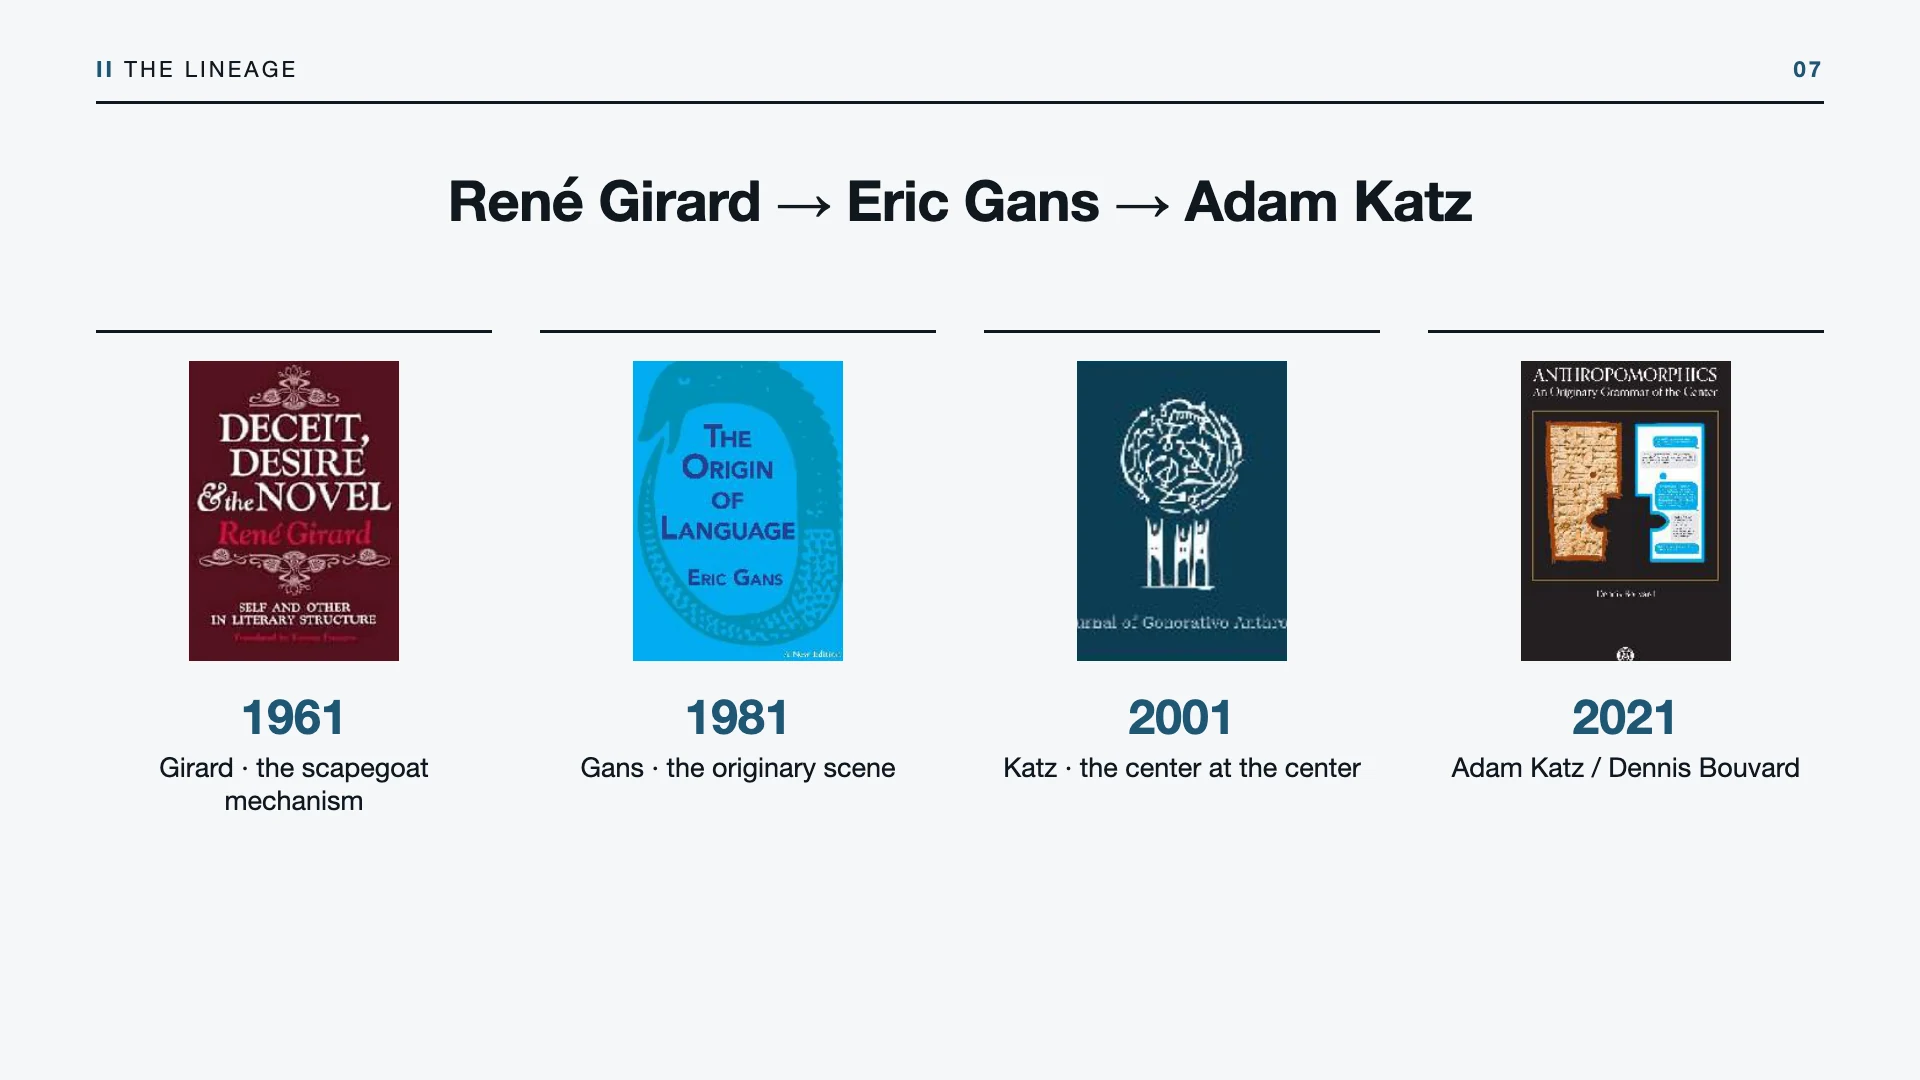
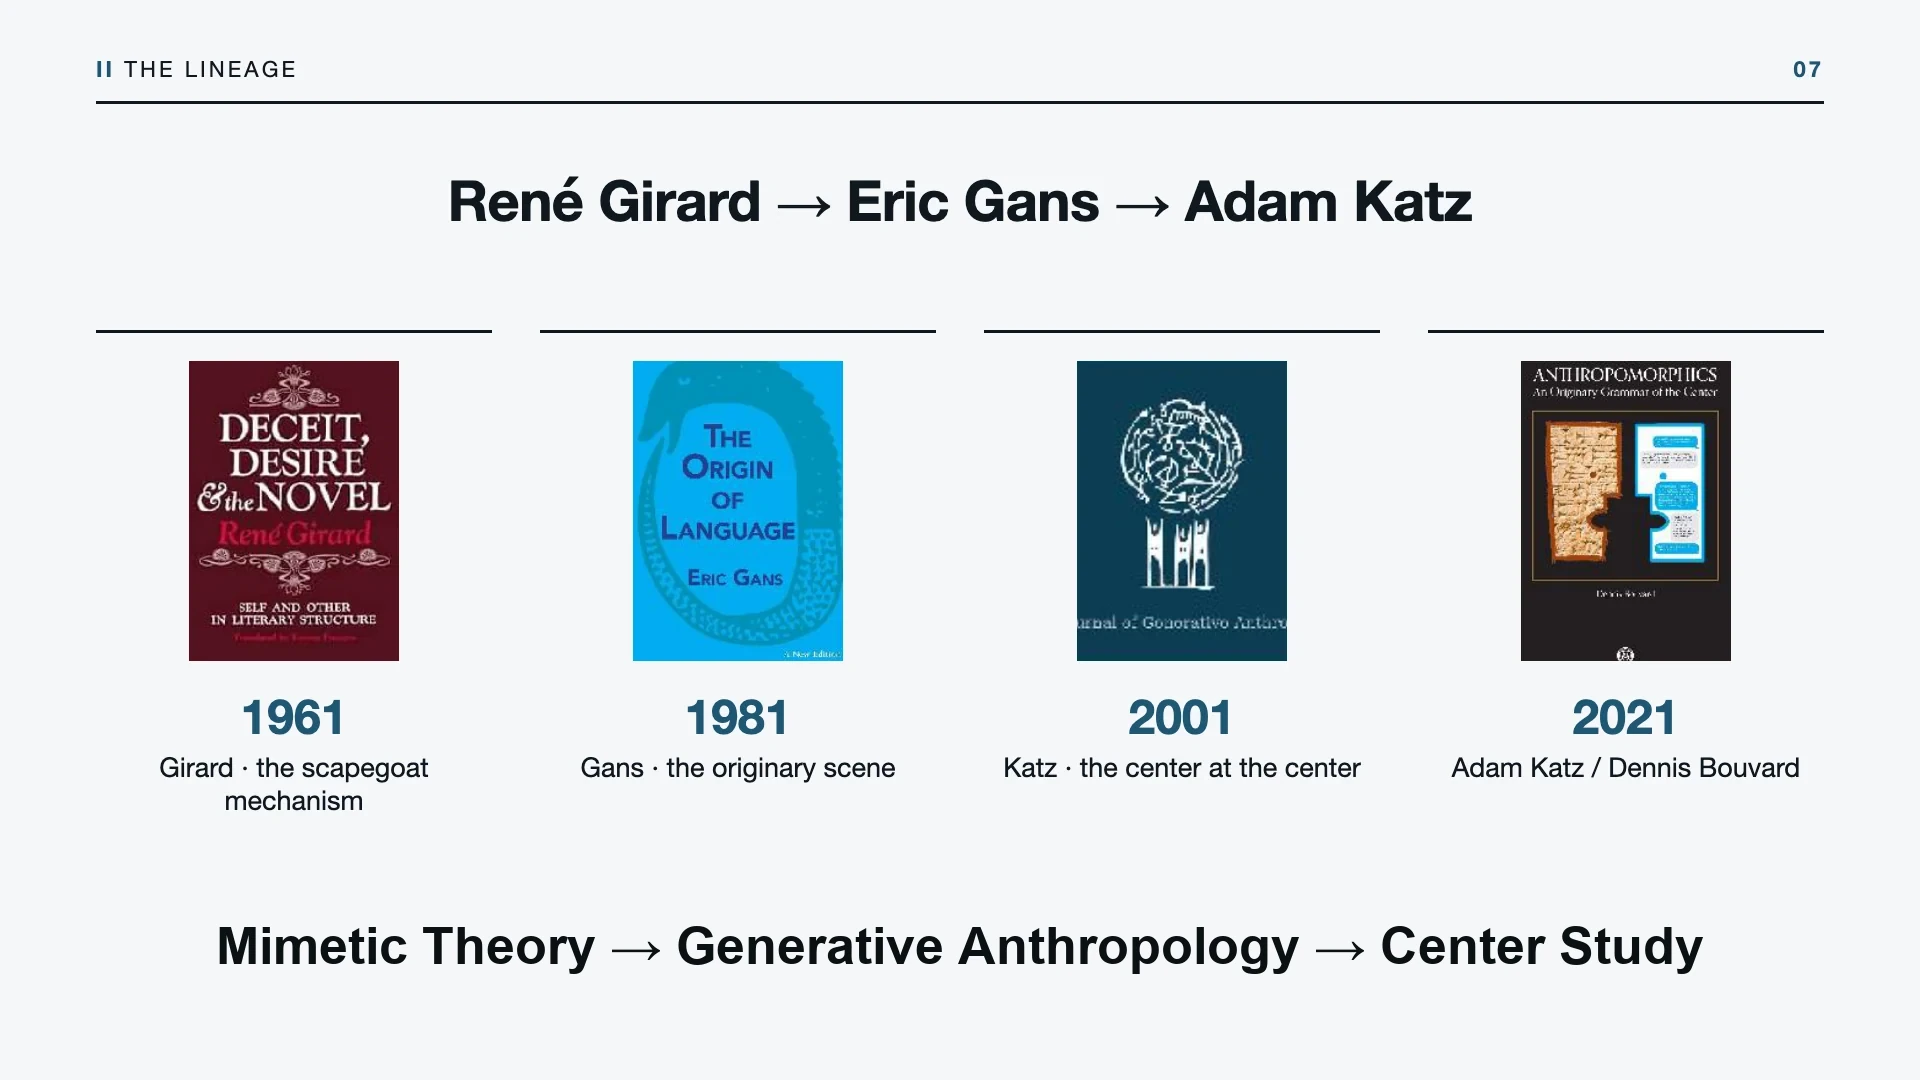
Avalon intro: lineage slide caption, author links, wording, spaces
- Slide 7 now carries "Mimetic Theory -> Generative Anthropology ->
  Center Study" under the books, mirroring the names line on top
- Adam Katz and Dennis Bouvard in the lineage paragraph link to
  /author/katz
- "So what was this amendment?" -> "So, what exactly was Gans'
  amendment to Mimetic Theory?"; "the solution" -> "Gans' solution"
- Explicit {' '} at the four inline-element junctions the production
  compiler can strip ("Languagein 1981" was live on this page)

Changed region(s): [[0.0938, 0.8556, 0.9062, 0.9167]]

diff --git a/src/app/intro-center-study-zack-baker/page.tsx b/src/app/intro-center-study-zack-baker/page.tsx
@@ -267,9 +267,11 @@ export default function IntroPage() {
         One way of thinking about the lineage is just isolating these
         different events, over twenty years, where the origins of each theory
         were first articulated. Girard releases <em>Deceit, Desire, and the
-        Novel</em> in 1961. Gans publishes <em>The Origin of Language</em> in
-        1981. Adam Katz&mdash;who writes under the pseudonym Dennis
-        Bouvard&mdash;starts contributing to <em>Anthropoetics</em>, the
+        Novel</em>{' '}in 1961. Gans publishes <em>The Origin of Language</em>{' '}in
+        1981. <Link href="/author/katz" className={TERM_CLASS}>Adam Katz</Link>
+        &mdash;who writes under the pseudonym{' '}
+        <Link href="/author/katz" className={TERM_CLASS}>Dennis Bouvard</Link>
+        &mdash;starts contributing to <em>Anthropoetics</em>, the
         journal of generative anthropology, in the early 2000s, and begins to
         take the absolutist turn, where he focuses on bringing the center back
         to the center. And this culminates in the forking of Center Study from
@@ -287,10 +289,10 @@ export default function IntroPage() {
       <H2>III. The Paradox of the First Word</H2>
       <Slide n={9} alt="The Origin of Language: the paradox of the first word" />
       <P>
-        So what was this amendment? I want to begin with a paradox: the first
-        word. Girard didn&rsquo;t have a theory of the origin of language.
+        So, what exactly was Gans&rsquo; amendment to Mimetic Theory? I want
+        to begin with a paradox: the first word. Girard didn&rsquo;t have a theory of the origin of language.
         It&rsquo;s a hard problem to grasp, but once you see the problem,
-        you&rsquo;ll see how elegant the solution is. Where does language come
+        you&rsquo;ll see how elegant Gans&rsquo; solution is. Where does language come
         from in the first instance?
       </P>
       <Slide n={11} alt="Société de Linguistique de Paris, statutes of 1866, Article 2" />
@@ -435,14 +437,14 @@ export default function IntroPage() {
         Here are seven idioms I selected; I&rsquo;ll talk through a few.
       </P>
       <P>
-        <strong>Singularized succession in perpetuity.</strong> All political
+        <strong>Singularized succession in perpetuity.</strong>{' '}All political
         problems are{' '}
         <TermLink href="/guide/concepts/succession" defKey="c:succession" className={TERM_CLASS} title="Concept: succession">succession</TermLink>
         {' '}problems. Who is going to lead in the future? How do you make that
         continuity a priority throughout the social order?
       </P>
       <P>
-        <strong>There is no economy, only the debt to the center.</strong> This
+        <strong>There is no economy, only the debt to the center.</strong>{' '}This
         is the title of <Q slug="ap2802-ap2802katzbaker" q="debt to the center">an article I co-authored with Adam</Q>, but the phrase is
         more than that. From the first animal sacrifice to the Fed&rsquo;s
         quantitative easing yesterday, we can think about the economy as a{' '}
